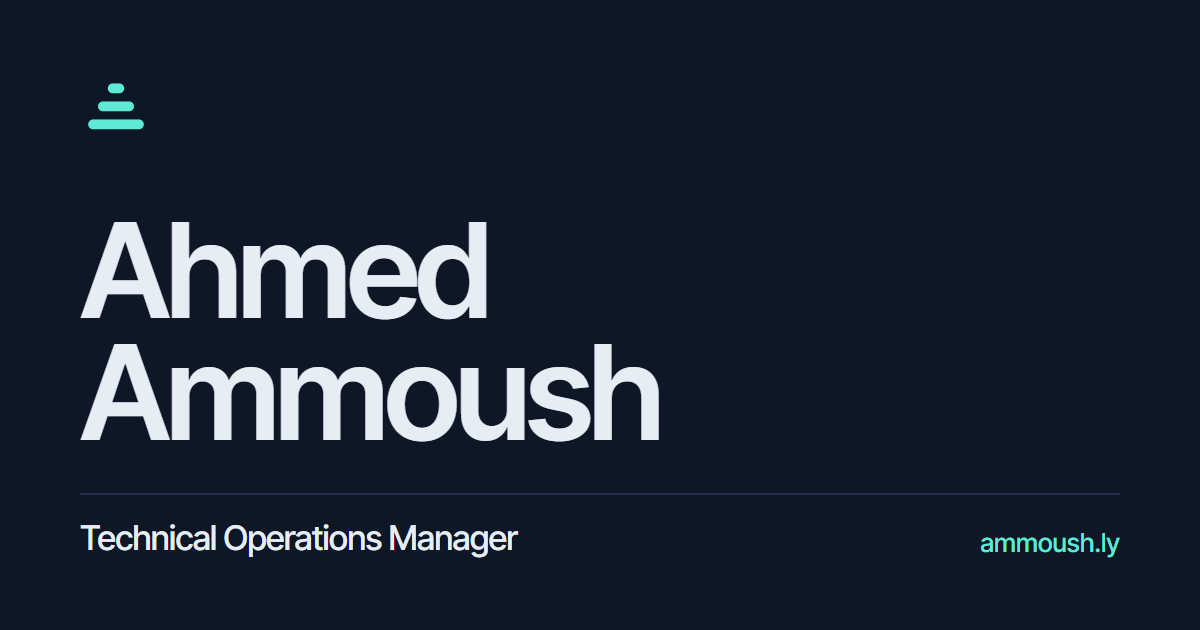
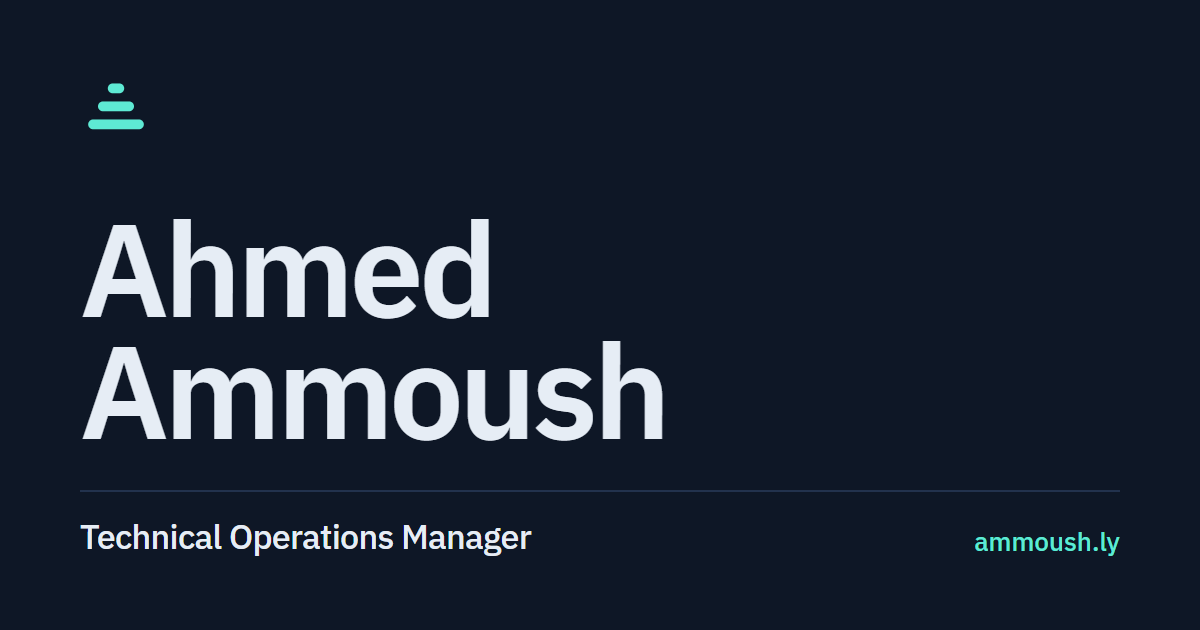
Switch the English typeface to IBM Plex Sans
Same family as the Arabic face, so both languages share one type identity. Share images re-rendered.

diff --git a/src/styles/tokens.css b/src/styles/tokens.css
@@ -23,7 +23,7 @@
   --cloud-rule: #dce3ec;
 
   /* Type */
-  --font-latin: "Inter Tight Variable", "Inter Tight", system-ui, -apple-system, "Segoe UI", sans-serif;
+  --font-latin: "IBM Plex Sans Variable", "IBM Plex Sans", system-ui, -apple-system, "Segoe UI", sans-serif;
   --font-arabic: "IBM Plex Sans Arabic", "Segoe UI", Tahoma, sans-serif;
 
   --step--1: 0.875rem;

diff --git a/README.md b/README.md
@@ -12,7 +12,7 @@ English at [`/`](https://ammoush.ly/), Arabic at [`/ar/`](https://ammoush.ly/ar/
 - Cross-document View Transitions between languages, and on theme change
 - About 2 KB of JavaScript in total (theme toggle, header tone, copy email)
 - Built-in Astro CSP with hashed scripts and styles, plus security headers in `public/_headers`
-- Self-hosted fonts: Inter Tight and IBM Plex Sans Arabic
+- Self-hosted fonts: IBM Plex Sans and IBM Plex Sans Arabic, one family across both languages
 - vCard and QR code generated at build time from the same content file
 
 Browsers without scroll-driven animations, and visitors who prefer reduced motion, get a static layout with all content visible.
